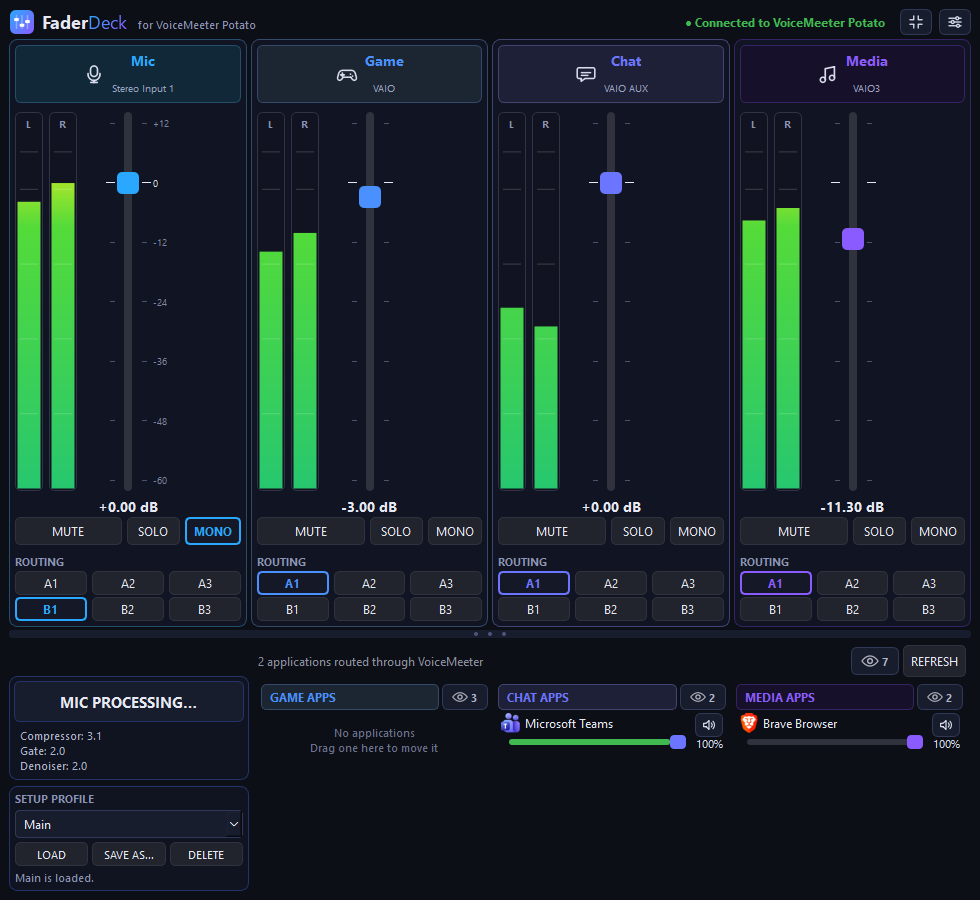
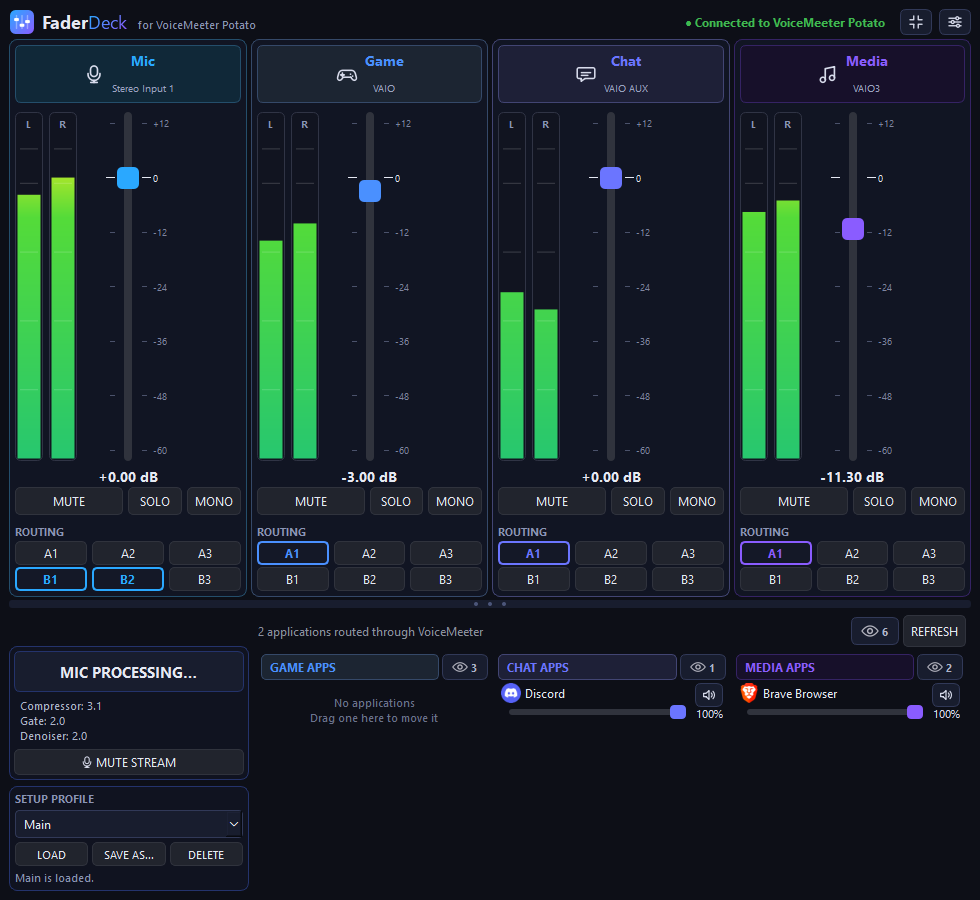
chore(release): version 1.10.0
Releases push to talk, hold to mute, MONITOR and MUTE STREAM, the phone and tablet remote with pairing and the firewall button, and dB numbers on every fader. The README pictures of the main window, the Hotkeys and Appearance tabs and the FaderDeck theme are refreshed and a picture of the new Microphone tab is added, taken against the live mixer with the meter levels set for the picture. The roadmap moves the remote to done and lists the stream mix, the Stream Deck plugin, Banana support and MIDI next.

diff --git a/main.py b/main.py
@@ -741,7 +741,7 @@ class ColorButton(QPushButton):
 # Updates. FaderDeck asks GitHub for its latest release. An update is that
 # release's installer, checked against the SHA-256 that GitHub publishes for
 # it before it runs.
-APP_VERSION = "1.9.0"
+APP_VERSION = "1.10.0"
 UPDATE_URL = (
     "https://api.github.com/repos/GuyliandeJong/FaderDeck/releases/latest"
 )

diff --git a/README.md b/README.md
@@ -71,6 +71,8 @@ Save your whole setup under a name and load it again with one click: gain, mute,
 
 Monitor is a button in Settings, Microphone, under the microphone input. Mute stream is a button under Mic Processing. Both are also in the tray menu and on the phone remote, and Mute stream has a hotkey. Choose under Settings, Microphone which output you monitor on and which one your stream hears. Mute stream only works when your stream software takes the microphone from an output of its own: in OBS, use VoiceMeeter Out B2 for the microphone and keep B1 for Discord.
 
+![Microphone settings](screenshots/settings-microphone.png)
+
 ### Global Hotkeys
 
 Hotkeys work while FaderDeck is in the background or hidden in the tray. Set them under Settings, Hotkeys.
@@ -350,12 +352,14 @@ The core mixer, microphone processing, application routing, live audio meters, a
 
 ## Roadmap
 
-Done so far: reconnect, meters on every channel, global hotkeys for mute, volume and profiles, system tray, settings window, voice presets, setup profiles, single running instance, compact view, remote control, your own channel names, themes with light mode and your own colours, an installer, automatic updates.
+Done so far: reconnect, meters on every channel, global hotkeys for mute, volume and profiles, system tray, settings window, voice presets, setup profiles, single running instance, compact view, remote control, your own channel names, themes with light mode and your own colours, an installer, automatic updates, push to talk and hold to mute, monitor and mute stream, a phone and tablet remote.
 
 Next, roughly in this order:
 
-1. Support for VoiceMeeter Banana and the standard edition
-2. An Android app to control FaderDeck from a tablet or phone on your own network
+1. A separate stream mix: other volumes for your viewers than for you
+2. A Stream Deck plugin
+3. Support for VoiceMeeter Banana and the standard edition
+4. MIDI controllers as physical faders
 
 Postponed: a signed EXE, so Windows does not warn about it. It needs a paid code-signing certificate.
 

diff --git a/HANDOVER.md b/HANDOVER.md
@@ -444,7 +444,7 @@ Potential roadmap:
 - start with Windows/minimized
 - OBS / Stream Deck integration
 - local API / Home Assistant integration
-- Android app to remote-control FaderDeck from a tablet or phone
+- phone and tablet remote (done in v1.10.0)
 - themes and DPI improvements
 - Windows installer
 - automatic updates

diff --git a/PROJECT_STATE.md b/PROJECT_STATE.md
@@ -201,7 +201,7 @@ Potential areas:
 - system tray
 - OBS/Stream Deck
 - local API/Home Assistant
-- Android app to remote-control FaderDeck from a tablet or phone
+- phone and tablet remote (done in v1.10.0, as a web page served by FaderDeck)
 - themes/DPI improvements
 - installer
 - automatic updates
